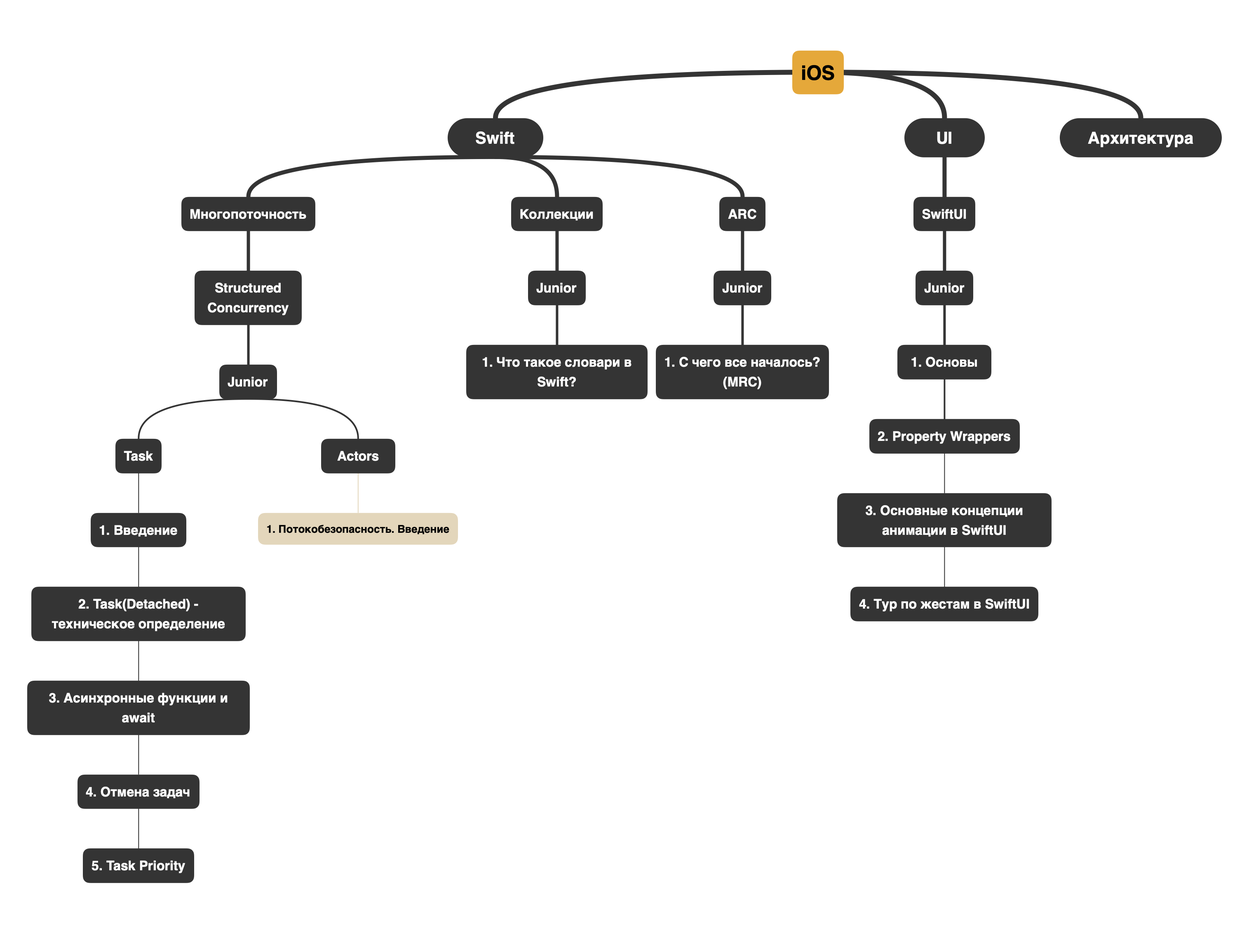
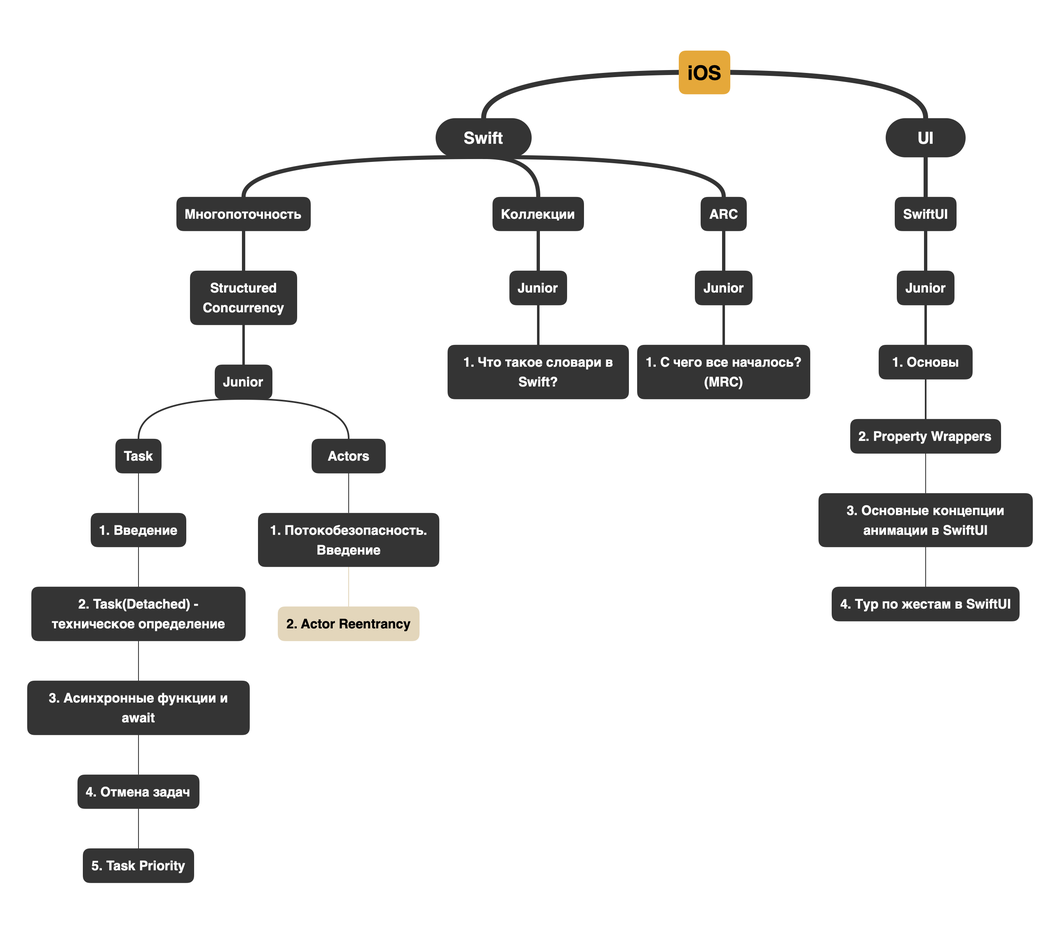
Sync changes from private repo to public

diff --git a/docs/UI/SwiftUI/Junior/3. Основные концепции анимаций в SwiftUI.md b/docs/UI/SwiftUI/Junior/3. Основные концепции анимаций в SwiftUI.md
@@ -20,9 +20,9 @@
 8. **.transformEffect()**
 
 Мы рассмотрим каждый из этих методов в логическом порядке, начиная с простых и переходя к более сложным и мощным подходам.
-# Простые анимации: **Модификаторы .animation(_:) и .animation(, value:)**
+## Простые анимации: **Модификаторы .animation(_:) и .animation(, value:)**
 
-## **Модификатор .animation(_:)**
+### **Модификатор .animation(_:)**
 
 > Модификатор находится в статусе **Deprecated,** но его до сих пор можно встретить в проектах
 > 
@@ -58,7 +58,7 @@ struct SimpleAnimationView: View {
 
 ***⃣ SwiftUI обрабатывает изменения состояния и автоматически применяет анимацию к связанным вьюхам. Внутри фреймворка создаются временные слоты, в которых изменения визуально трансформируются с использованием тайминга анимации. Это достигается благодаря внутреннему API, которое интерполирует значения между текущим и целевым состоянием.**
 
-## **Модификатор .animation(, value:)**
+### **Модификатор .animation(, value:)**
 **.animation(, value:)** — более избирательный способ управления анимациями. Анимация выполняется только при изменении конкретного значения.
 ```swift
 struct ValueBasedAnimationView: View {
@@ -102,7 +102,7 @@ struct ValueBasedAnimationView: View {
 **Реализация***
 
 ***⃣ Этот модификатор использует принцип дифференциации состояний. SwiftUI отслеживает изменения указанных значений, и если одно из них изменяется, анимация автоматически применяется к связанным визуальным элементам. Внутри фреймворка используется механизм KVO (Key-Value Observing) для отслеживания этих изменений.**
-# **Контекстная анимация: withAnimation**
+## **Контекстная анимация: withAnimation**
 **withAnimation** позволяет оборачивать изменения состояния в блок анимации. В отличие от **.animation(_:)**, **withAnimation** позволяет анимировать конкретные действия, а не все изменения вьюхи.
 ```swift
 struct ContextualAnimationView: View {
@@ -140,7 +140,7 @@ struct ContextualAnimationView: View {
 **Реализация***
 
 ***⃣ withAnimation работает, оборачивая изменения состояния в транзакцию, которая передает анимационные параметры внутрь фреймворка. Эти параметры затем используются для создания анимации перехода от одного состояния к другому. SwiftUI управляет этими транзакциями, обеспечивая синхронное выполнение анимаций.**
-# **Переходы между состояниями: AnyTransition и .transition()**
+## **Переходы между состояниями: AnyTransition и .transition()**
 **AnyTransition** используется для анимации появления и исчезновения вьюх. Это мощный инструмент для создания плавных переходов между состояниями интерфейса.
 ```swift
 struct TransitionExampleView: View {
@@ -197,8 +197,8 @@ extension AnyTransition {
 **Реализация***
 
 ***⃣ SwiftUI создает временные слепки вьюх для выполнения переходов и управляет визуальной согласованностью между состояниями. Когда вы задаете AnyTransition, SwiftUI создает замороженные копии вьюх до и после анимации и затем интерполирует эти состояния, чтобы создать плавный переход.**
-# **Гибкие анимации: AnimatableModifier и работа с векторными данными**
-## **Модификаторы анимаций с использованием AnimatableModifier**
+## **Гибкие анимации: AnimatableModifier и работа с векторными данными**
+### **Модификаторы анимаций с использованием AnimatableModifier**
 **AnimatableModifier** позволяет анимировать сложные свойства, такие как текст или градиенты, которые не поддерживаются стандартными методами анимации.
 ```swift
 struct AnimatableFontModifier: AnimatableModifier {
@@ -243,7 +243,7 @@ struct AnimatableFontView: View {
 **Реализация***
 
 ***⃣ AnimatableModifier использует протокол AnimatableData, который позволяет SwiftUI интерполировать данные анимации. SwiftUI отслеживает изменения в animatableData, вычисляет промежуточные значения для плавного перехода между состояниями и обновляет визуальные свойства вьюхи соответственно.**
-## Работа с векторными данными (VectorArithmetic, AnimatableData)
+### Работа с векторными данными (VectorArithmetic, AnimatableData)
 Эти протоколы позволяют создавать сложные анимации, работающие с векторными данными, например, анимацию нескольких параметров одновременно.
 ```swift
 struct CustomShape: Shape {
@@ -287,7 +287,7 @@ struct VectorAnimationView: View {
 **Реализация***
 
 ***⃣ SwiftUI использует протоколы VectorArithmetic и AnimatableData, чтобы разбить данные на составляющие и интерполировать их. Эти протоколы позволяют SwiftUI преобразовывать векторные данные в анимации, которые затем плавно изменяют свойства вьюхи.**
-# **Анимации между состояниями: .matchedGeometryEffect()**
+## **Анимации между состояниями: .matchedGeometryEffect()**
 **.matchedGeometryEffect()** используется для создания согласованных анимаций между двумя разными состояниями вьюх. Это позволяет создать иллюзию непрерывного движения или трансформации объектов между двумя представлениями.
 ```swift
 struct MatchedGeometryEffectExample: View {
@@ -334,7 +334,7 @@ struct MatchedGeometryEffectExample: View {
 **Реализация***
 
 ***⃣ .matchedGeometryEffect() работает, сопоставляя геометрию двух вьюх с использованием уникального идентификатора. SwiftUI затем интерполирует изменения в позиции, размере и форме этих вьюх, создавая плавный переход. Внутри фреймворка используется механизм привязки к анимации, который отслеживает изменения этих вьюх и обновляет представление в реальном времени.**
-# **Трансформации с использованием .transformEffect()**
+## **Трансформации с использованием .transformEffect()**
 **.transformEffect()** применяется для выполнения матричных трансформаций к вьюхам, таких как перемещение, масштабирование и вращение.
 ```swift
 struct TransformEffectExample: View {
@@ -369,7 +369,7 @@ struct TransformEffectExample: View {
 **Реализация***
 
 ***⃣ .transformEffect() использует матричные преобразования для изменения параметров вьюхи, таких как положение, размер и угол поворота, интерполируя эти значения при анимации. SwiftUI берет матрицы преобразований, применяет их к вьюхе и плавно интерполирует эти матрицы, создавая плавные и согласованные эффекты.**
-# **Оптимизация и проблемы с анимацией**
+## **Оптимизация и проблемы с анимацией**
 Несмотря на простоту и мощь SwiftUI, анимации могут привести к некоторым проблемам, таким как:
 
 1. **Фризы и задержки:** Если анимация затрагивает много объектов или выполняет сложные вычисления, это может привести к снижению производительности.

diff --git a/docs/Swift/Многопоточность/Structured Concurrency/Junior/Actors/2. Actor Reentrancy.md b/docs/Swift/Многопоточность/Structured Concurrency/Junior/Actors/2. Actor Reentrancy.md
@@ -1,0 +1,134 @@
+
+---
+
+> **Изучение данного блока предполагает предварительное знание синтаксиса языка Swift.**
+*Для успешного освоения этого материала, необходимо иметь базовое понимание синтаксиса языка Swift. Это включает в себя знание основных структур данных, операторов, циклов, функций, абстракций и других ключевых элементов языка. Без этих фундаментальных знаний будет сложно понять более сложные концепции и примеры, которые будут рассматриваться в данном блоке.*
+> 
+
+---
+На первый взгляд кажется, что работа с **Actor** очень простая. Но на самом деле есть достаточно неприятные проблемы о которых необходимо знать. Первая из них - это высокоуровневые гонки (потокобезопасность остаётся). 
+
+Рассмотрим проблему на примере:
+
+**Есть человек(Person). У него есть друг и мнение человека(opinion). Есть две асинхронные функции - подумать о хорошем и о плохом - это позволяет зафиксировать своё мнение и рассказать его другу. Что будет выведено на экран в коде ниже?**
+```swift
+actor Person {
+	let friend: Friend
+	var opinion: Judgment = .noIdea
+
+	init(friend: Friend) {
+		self.friend = friend
+	}
+
+	func thinkOfGood() async -> Decision {
+		opinion = .goodIdea  // 1
+		await friend.tell(opinion) // 2
+		return opinion
+	}
+
+	func thinkOfBad() async -> Decision {
+		opinion = .badIdea // 3
+		await friend.tell(opinion) // 4
+		return opinion
+	}
+}
+
+// Запустим две задачи одновременно
+async let goodThink = person.thinkOfGood()
+async let badThink = person.thinkOfBad()
+
+let (shouldBeGood, shouldBeBad) = await (goodThink, badThink)
+print(shouldBeGood)
+```
+*На экран выведется или `.goodIdea` или `.badIdea`*
+## Теория и объяснение
+На самом деле такое поведение логично для **Actor**. **Почему?** Напомню, что вызов **await** - это точка приостановки исполнения когда, на данном этапе формируется **continuation** и в этот момент **_Actor** освобождается и он сразу же берёт в работу другую задачу._ Это и приводит к высокоуровневым гонкам. Обсудим пример выше по шагам
+
+```swift
+/// Предположим первым попал на исполнение метод thinkOfGood(), тогда:
+opinion = .goodIdea     // 1 - Меняем общее состояние await friend.tell(...)
+await friend.tell(...)  // 2 - После чего происходит приостановка
+
+/// В данный момент Actor берёт на исполнение другую задачу thinkOfBad()
+opinion = .badIdea     // 3 - СНОВА Меняем общее состояние
+await friend.tell(...) // 4 - После чего происходит приостановка
+
+/// и теперь возвращается и продолжает своё исполнение thinkOfGood()
+/// ей остаётся вернуть общий стейт и она возвращает неверный
+```
+**Внимательно следите за общим состоянием Actor. Особенно если у него есть асинхронные функции.**
+## Как с этим бороться?
+- Изменять стейт после вызова всех асинхронных функций
+- Реорганизовывать логику работы функций и освобождать **Actor** от **async** функций
+- Добавление в код Task
+
+![[taskFromInterview.gif]]_Мы хотим построить хранилище данных, которое бы имело кеш и отдавало из него данные. В случае отсутствия данных мы бы шли в базу и запрашивали их (предположим, что поход в базу для нас является очень тяжелой операций)._
+
+**Посмотрите внимательно на код и ответьте, что не так в этом коде? И если есть ошибки, то как их исправить?**
+``` swift
+actor ActivitiesStorage {
+	/// Изолированный кеш
+	var cache = [UUID: Data?]()
+    
+	func retrieveHeavyData(for id: UUID) async -> Data? {
+		if let data = cache[id] {
+			return data
+		}
+		let data = await requestDataFromDatabase(for: id)
+		cache[id] = data
+		return data
+  }
+
+  private func requestDataFromDatabase(for id: UUID) async -> Data? {
+		print("Выполняется загрузка из базы данных!")
+		try? await Task.sleep(for: .seconds(7))
+		return nil
+	}
+}
+
+// Запуск кода
+let id = UUID()
+let storage = ActivitiesStorage()
+Task {
+	let data = await storage.retrieveHeavyData(for: id)
+}
+
+Task {
+	let data = await storage.retrieveHeavyData(for: id)
+}
+```
+> Самая большая ошибка здесь заключается в том, что если мы запустим 2 функции одновременно, то есть большая вероятность сходить в базу данных 2 раза. То есть мы зашли в функцию - проверили кеш - там ничего - освободили Actor и ушли в базу. Аналогично при втором заходе в функцию. И так может продолжаться, до тех пор пока мы не положим значение в кеш. Как же нам необходимо изменить код?
+
+
+```swift
+actor ActivitiesStorage {
+	/// Изолированный кеш
+	var cache = [UUID: Data?]()
+    
+	func retrieveHeavyData(for id: UUID) async -> Data? {
+		/// Проверяем в кеше наличие задачи - если она есть
+		/// то мы либо возвращаем значение, которое лежит в ней,
+		/// либо ждём пока завершится выполнение задачи
+		if let dataTask = cache[id] {
+			return await dataTask.value
+	    }
+	    let dataTask = Task { 
+		    await requestDataFromDatabase(for: id)
+		}
+	    cache[id] = dataTask 
+	    /// После чего уже вызываем await тем самым особождая эктор
+	    return await dataTask.value
+	}
+
+  private func requestDataFromDatabase(for id: UUID) async -> Data? {
+		print("Выполняется загрузка из базы данных!")
+		try? await Task.sleep(for: .seconds(7))
+		return nil
+	}
+}
+```
+
+Мы с вами нашли прекрасное применение **Task** - она помогла нам решить проблему с **Actor Reentrancy** и сделать код безопасным и лаконичным. 
+## Итого
+1. Синхронные функции на **Actor** выполняются синхронно, в этих функциях состояние корректное
+2. **async** функции на **actor** могут освобождать его от выполнения текущей задачи (при обнаружении ожидания), что дает возможность для запуска других задач на акторе - по возвращению стейт уже может быть другм.

diff --git a/docs/UI/SwiftUI/Junior/4. Тур по жестам в SwiftUI.md b/docs/UI/SwiftUI/Junior/4. Тур по жестам в SwiftUI.md
@@ -9,8 +9,8 @@
 Жесты — механизм, позволяющий разработчикам реагировать на пользовательские взаимодействия с интерфейсом. Жесты включают такие действия, как нажатия, долгие нажатия, перетаскивания, масштабирование, вращение и многое другое. SwiftUI предоставляет ряд встроенных жестов, которые можно использовать для создания интуитивно понятных интерфейсов, а также возможность создания собственных жестов.
 ### **Как работают жесты в SwiftUI**
 SwiftUI обрабатывает события касания и другие сенсорные данные, чтобы обнаруживать и обрабатывать жесты. Эти данные включают позицию пальцев, длительность касания, угол вращения и другие параметры, которые затем преобразуются в действия, определенные разработчиком. Под капотом SwiftUI использует сочетание **UIView** (для iOS) или **NSView** (для macOS) и различных API для работы с событиями ввода. Жесты являются оберткой над этими API и предоставляют более удобный способ работы с пользователем.
-# Типы жестов и их примеры
-## **TapGesture**
+## Типы жестов и их примеры
+### **TapGesture**
 Это базовый жест, который распознает одно или несколько нажатий на экран. Он полезен для выполнения простых действий, таких как открытие окна, изменение состояния кнопки или переключение между режимами.
 
 **Реализация:**
@@ -80,7 +80,7 @@ struct CoordinateTapGestureExample: View {
 }
 ```
 ![[Gesture3.gif]]
-## **LongPressGesture**
+### **LongPressGesture**
 Распознает долгие нажатия на экран. Этот жест полезен для выполнения действий, которые требуют более уверенного ввода, таких как вызов контекстного меню, переключение состояния или подтверждение действия.
 
 **Реализация:**
@@ -135,7 +135,7 @@ struct StatefulLongPressGestureExample: View {
 }
 ```
 ![[Gesture5.gif]]
-## **SpatialTapGesture**
+### **SpatialTapGesture**
 Предоставляет вам доступ к точным координатам нажатия относительно координатной системы представления, на котором был вызван жест. Это позволяет создавать сложные взаимодействия, где важно знать место нажатия. SwiftUI также заботится о том, чтобы корректно преобразовать координаты в зависимости от трансформаций, наложенных на представление, например, масштабирование или вращение.
 
 - **Взаимодействие с объектом**
@@ -201,7 +201,7 @@ struct SpatialTapGestureTappedZoneExample: View {
 }
 ```
 ![[Gesture7.gif]]
-## **DragGesture**
+### **DragGesture**
 Позволяет отслеживать перемещение пальца по экрану и изменять расположение элементов. Этот жест часто используется для создания интерактивных элементов, таких как перетаскивание объектов, слайдеры или анимации.
 
 **Реализация:**
@@ -261,7 +261,7 @@ struct ConstrainedDragGestureExample: View {
 }
 ```
 ![[Gesture9.gif]]
-## **MagnifyGesture**
+### **MagnifyGesture**
 Позволяет пользователю увеличивать или уменьшать элементы с помощью жеста “щипка”. Полезен в приложениях, где требуется изменение масштаба изображений, карт или других визуальных элементов.
 
 **Реализация**:
@@ -288,7 +288,7 @@ struct MagnifyGestureExample: View {
 }
 ```
 ![[Gesture10.gif]]
-## **RotateGesture**
+### **RotateGesture**
 Позволяет вращать элементы на экране с использованием двух пальцев. Полезен в приложениях для работы с изображениями, графикой или 3D-моделями.
 
 **Реализация**:
@@ -316,7 +316,7 @@ struct RotateGestureExample: View {
 
 ```
 ![[Gesture11.gif]]
-## **Apple Pencil Жесты**
+### **Apple Pencil Жесты**
 SwiftUI предоставляет специальные жесты для работы с **Apple Pencil**, такие как **onPencilDoubleTap** и **onPencilSqueeze**. Они полезны в приложениях для рисования, аннотирования или управления интерфейсом с помощью Apple Pencil.
 
 **Реализация:**
@@ -359,7 +359,7 @@ struct PencilSqueezeExample: View {
     }
 }
 ```
-## **Комбинированные жесты**
+### **Комбинированные жесты**
 **SwiftUI** позволяет комбинировать жесты для создания сложных взаимодействий с помощью **SimultaneousGesture**, **SequenceGesture** и **ExclusiveGesture**. Это полезно для создания сложных и интуитивно понятных интерфейсов.
 
 **Реализация:**
@@ -492,7 +492,7 @@ struct ExclusiveGestureExampleView: View {
 }
 ```
 ![[Gesture14.gif]]
-# **Управление приоритетами жестов**
+## **Управление приоритетами жестов**
 **highPriorityGesture** — это модификатор в SwiftUI, который позволяет вам задать приоритет для жестов на уровне интерфейса пользователя. В контексте SwiftUI, несколько жестов могут взаимодействовать друг с другом, и **highPriorityGesture** позволяет вам указать, что определённый жест должен обрабатываться с более высоким приоритетом, чем другие жесты, определённые на том же элементе.
 
 **Пример:**
@@ -520,7 +520,7 @@ struct GesturePriorityExample: View {
     }
 }
 ```
-# **Отключение жестов и управление доступностью**
+## **Отключение жестов и управление доступностью**
 Модификатор **allowsHitTesting** управляет тем, можно ли взаимодействовать с элементом интерфейса. Если установить его значение в **false**, то элемент будет невидим для системы касаний, что позволяет создавать интерфейсы, где элементы могут быть видимы, но не реагировать на касания.
 
 **Пример:**

diff --git a/docs/UI/SwiftUI/Junior/1. Основы.md b/docs/UI/SwiftUI/Junior/1. Основы.md
@@ -19,7 +19,7 @@ SwiftUI автоматически обновляет интерфейс при 
 - **Композиция представлений**
 
 Вместо наследования, SwiftUI использует композицию. Представления можно комбинировать друг с другом, чтобы создавать сложные интерфейсы.
-# Протокол View
+## Протокол View
 Представляет абстракцию для всех элементов интерфейса. В SwiftUI любой компонент UI, который вы создаете, должен соответствовать этому протоколу:
 ```swift
 public protocol View {
@@ -30,7 +30,7 @@ public protocol View {
 `associatedtype Body: View` — это ассоциированный тип, который указывает, какой тип является “телом” представления. Важно, что тело также должно быть типом, соответствующим протоколу View.
 
 `var body: Self.Body { get }`  — это свойство, которое возвращает представление, описывающее то, как отображается UI-компонент. body должен возвращать что-то, что также соответствует протоколу View.
-## Почему используются структуры, как наследники View?
+### Почему используются структуры, как наследники View?
 - **Неизменяемость**
 
 Структуры в Swift по умолчанию являются неизменяемыми. Это означает, что состояние представления не может быть изменено напрямую, что упрощает управление состоянием и делает код более предсказуемым.
@@ -38,7 +38,7 @@ public protocol View {
 - **Производительность**
 
 Структуры обычно легче и быстрее по сравнению с классами, так как не требуют управления памятью через ARC (*Automatic Reference Counting*).
-## Как работает под “капотом”?
+### Как работает под “капотом”?
 - **Система отображения и обновления**
 
 SwiftUI использует рекурсивную систему для отображения представлений и отслеживания изменений в их состоянии. Когда состояние изменяется, SwiftUI автоматически пересчитывает и обновляет только те части интерфейса, которые были изменены.
@@ -50,7 +50,7 @@ SwiftUI использует рекурсивную систему для ото
 - **Композиция и модификаторы**
 
 Представления в SwiftUI являются композируемыми, что позволяет создавать сложные интерфейсы из простых строительных блоков. Модификаторы позволяют изменять представления, не изменяя их исходный код.
-## Основные компоненты и их использование
+### Основные компоненты и их использование
 - **Text** — Представление для отображения текста
 ```swift
 Text("Hello, World!")
@@ -82,7 +82,7 @@ VStack {
     Text("Bottom")
 }
 ```
-## Модификаторы
+### Модификаторы
 - Методы, которые применяются к представлениям для изменения их внешнего вида или поведения.
 - **Каждый модификатор возвращает новое представление**, измененное в соответствии с примеренными параметрами.
 - **Модификаторы цепочные,** что означает, что вы можете применять несколько модификаторов последовательно.
@@ -96,7 +96,7 @@ Text("Hello, World!")
 ```
 > *В этом примере текст сначала получает заголовочный шрифт `(.font(.title))`, затем синий цвет `(.foregroundColor(.blue))`, и, наконец, отступы `(.padding())`*
 > 
-## Модификаторы жизненного цикла View
+### Модификаторы жизненного цикла View
 SwiftUI включает три модификатора, которые реагируют на события жизненного цикла вью:
 
 - `onAppear(perform:)` — выполняет действие при каждом появлении вью, даже если вью появилась не первый раз.

diff --git a/docs/Swift/Многопоточность/Structured Concurrency/Junior/Actors/1. Потокобезопасность. Введение.md b/docs/Swift/Многопоточность/Structured Concurrency/Junior/Actors/1. Потокобезопасность. Введение.md
@@ -1,3 +1,11 @@
+
+---
+
+> **Изучение данного блока предполагает предварительное знание синтаксиса языка Swift.**
+*Для успешного освоения этого материала, необходимо иметь базовое понимание синтаксиса языка Swift. Это включает в себя знание основных структур данных, операторов, циклов, функций, абстракций и других ключевых элементов языка. Без этих фундаментальных знаний будет сложно понять более сложные концепции и примеры, которые будут рассматриваться в данном блоке.*
+> 
+
+---
 Одна из проблем работы с многопоточностью - это потокобезопасность. Как только мы начинаем работать с несколькими потоками, то у нас сразу же может возникать ситуация,  когда два потока обратились к одной переменной, несколько потоков пытаются прочитать данные, а какой-то поток записывает. 
 
 **Потокобезопасность** — это свойство программы, которое гарантирует корректное и предсказуемое поведение при одновременном доступе из нескольких потоков. Это означает, что данные остаются в актуальном состоянии и не повреждаются, даже когда несколько потоков пытаются их прочитать или изменить одновременно.
